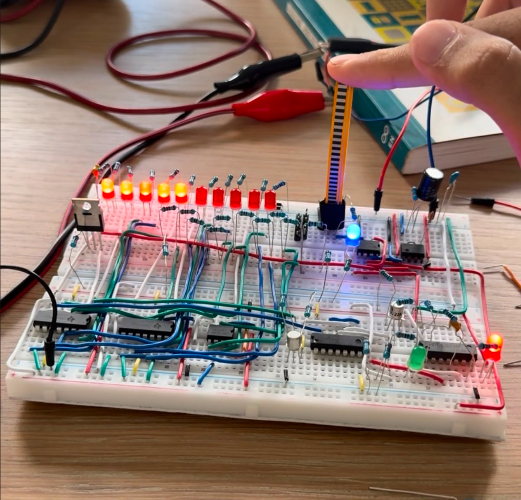
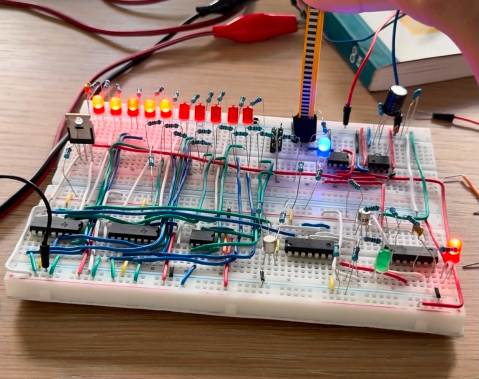
css

diff --git a/css/style.css b/css/style.css
@@ -5,11 +5,17 @@
     --text:#1E293B;
 }
 
-body.dark-mode{
-    --bg:#111827;
-    --surface:#1f2937;
-    --text:#f3f4f6;
-    --border:#374151;
+body::before {
+  content: ''; 
+  position: fixed; 
+  inset: 0; 
+  pointer-events: none; 
+  z-index: 0;
+  
+  background-image: radial-gradient(rgba(138, 138, 188, 0.564) 1.5px, transparent 1.5px);
+  background-position: 0 0, 15px 15px;
+  background-size: 40px 60px; 
+  mask-image: radial-gradient(ellipse 80% 50% at 50% 0%, var(--bg) 40%, transparent 100%);
 }
 
 *{
@@ -146,6 +152,7 @@ nav{
 
 .hero-image{
     flex:1;
+    z-index:1;
 }
 
 .hero-image img{
@@ -305,6 +312,9 @@ nav{
     gap:4rem;
 }
 
+.about-image{
+    z-index:1;
+}
 .about-image img{
     width:350px;
     border-radius:20px;
@@ -315,6 +325,7 @@ nav{
     border-right:3px solid var(--primary);
     padding-right:6px;
     animation:blink 0.8s infinite;
+    z-index:10;
 }
 
 .timeline-heading{
@@ -505,6 +516,7 @@ nav{
 .projects-hero{
     padding:6rem 0 3rem;
     text-align:center;
+    z-index:10;
 }
 
 .projects-hero p{
@@ -671,6 +683,7 @@ nav{
 
 #contact-heading{
     font-size:3rem;
+    z-index:10;
 }
 
 .contact-header{
@@ -679,6 +692,7 @@ nav{
     padding:2rem;
     text-align:center;
     border-radius:20px 20px 0 0;
+    z-index:10;
 }
 
 .contact-hero {

diff --git a/js/modal.js b/js/modal.js
@@ -57,10 +57,10 @@ const projectData = {
 
     2048:{
 
-        title:"2048 Game",
+        title:"Reverse 2048 Project",
         image: "assets/images/2048-proj.png",
         description:
-        "A fully functional version of the 2048 game played by two AI algorithms that play against each other until one wins or a draw is concluded. The project was developed in C++ on codeblocks with a focus on clean code, documentation and AI implementation. The project allowed me to develop my skills in C++ programming, AI algorithm implementation, and software engineering practices while creating a functional and engaging gameplay experience.",
+        "A fully functional version of the reverse 2048 game played by two AI algorithms that play against each other until one wins or a draw is concluded. The project was developed in C++ on codeblocks with a focus on clean code, documentation and AI implementation. The project allowed me to develop my skills in C++ programming, AI algorithm implementation, and software engineering practices while creating a functional and engaging gameplay experience.",
         tech:
         "C++, Object-Oriented Programming, AI Algorithms, Clean Code, Documentation",
         features:

diff --git a/projects.html b/projects.html
@@ -163,10 +163,10 @@
 
                         <div class="project-content">
 
-                            <h2>2048 Project</h2>
+                            <h2>Reverse 2048</h2>
 
                             <p>
-                                A fully functional version of the 2048 game played by two AI algorithms, 
+                                A fully functional version of the reverse 2048 game played by two AI algorithms, 
                                 developed in C++ on codeblocks with a focus on clean code, documentation and AI implementation.
                             </p>
 